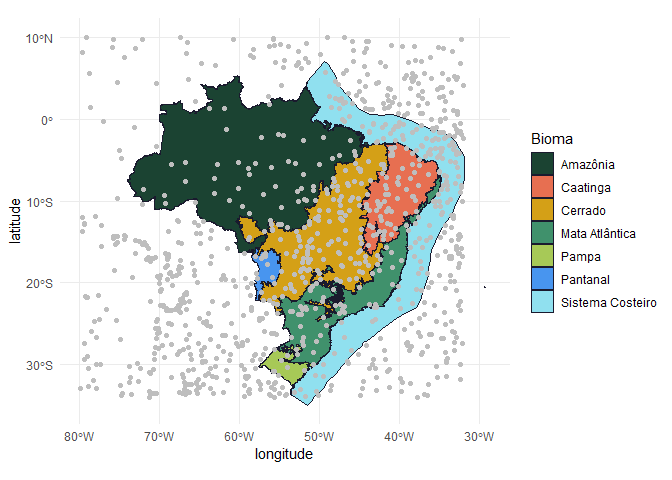
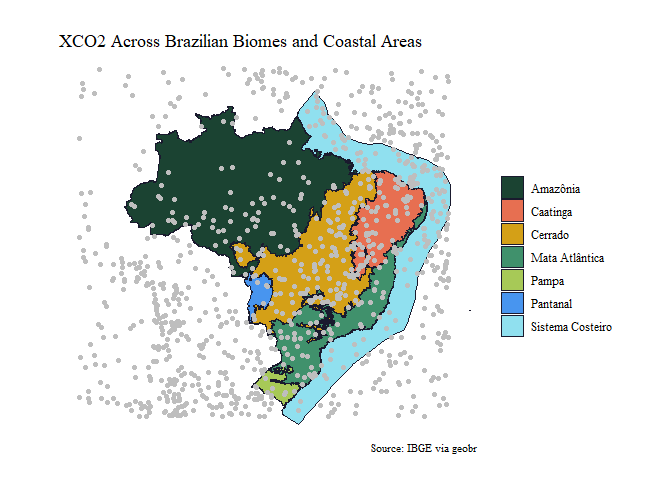
atualiza

diff --git a/README.md b/README.md
@@ -13,7 +13,7 @@ tabelas, o que é ótimo para projetos científicos.
 - warning = false = não mostre avisos quando o este bloco de código for
   executado.
 - message = false = não mostrar mensagens dos pacotes carregados que não
-  fazem parte da análise de dados.  
+  fazem parte da análise de dados.\
 - eval = false = não execute o código deste bloco, apenas mostre o
   código no documento.
 
@@ -25,20 +25,20 @@ tabelas, o que é ótimo para projetos científicos.
 
 ## 👨🔬 Autores
 
-- **Amanda de Oliveira Gravena**  
-  Mestranda em Agronomia (Ciência do Solo) - FCAV/Unesp  
+- **Amanda de Oliveira Gravena**\
+  Mestranda em Agronomia (Ciência do Solo) - FCAV/Unesp\
   Email: <amanda.gravena@unesp.br>
 
-- **Ms. Witória de Oliveira Araújo**  
-  Doutoranda em Agronomia (Ciência do Solo) - FCAV/Unesp  
+- **Ms. Witória de Oliveira Araújo**\
+  Doutoranda em Agronomia (Ciência do Solo) - FCAV/Unesp\
   Email: <witoria.araujo@unesp.br>
 
-- **Mr. Luís Miguel da Costa**  
-  Doutorando em Agronomia (Ciência do Solo) - FCAV/Unesp  
+- **Mr. Luís Miguel da Costa**\
+  Doutorando em Agronomia (Ciência do Solo) - FCAV/Unesp\
   Email: <lm.costa@unesp.br>
 
-- **Prof. Dr. Alan Rodrigo Panosso**  
-  Coorientador — Departamento de Ciências Exatas - FCAV/Unesp  
+- **Prof. Dr. Alan Rodrigo Panosso**\
+  Coorientador — Departamento de Ciências Exatas - FCAV/Unesp\
   Email: <alan.panosso@unesp.br>
 
 ## Carregando os pacotes
@@ -289,7 +289,7 @@ biomes |>
   ) +
   geom_point( data = df |> 
           filter(xco2_quality_flag == 0) |> 
-            sample_n(1000)
+            slice_sample(n = 1000)
               , aes(longitude, latitude), color="gray")
 ```
 
@@ -327,9 +327,9 @@ desenha uma amostra de pontos do conjunto de dados df.
 ## Transformar o df de XCO2 em objeto espacial (sf)
 
 ``` r
-# df_sf <- df |> 
-#   filter(xco2_quality_flag == 0) |> 
-#   st_as_sf(coords = c("longitude", "latitude"), crs = 4326, remove = FALSE)
+df_sf <- df |>
+  filter(xco2_quality_flag == 0) |>
+  st_as_sf(coords = c("longitude", "latitude"), crs = 4326, remove = FALSE)
 ```
 
 ## Legenda:
@@ -424,7 +424,7 @@ Como?
 \##Lendo o arquivo salvo até aqui
 
 ``` r
-#df_brasil <- read_rds("data/xco2-brasil-biomas.rds")
+df_brasil <- read_rds("data/xco2-brasil-biomas.rds")
 ```
 
 ``` r
@@ -495,24 +495,29 @@ st_crs(brasil)
 
 ``` r
 plot(st_geometry(costeiro_terrestre))
-
 costeiro_terrestre_buffer <- sf::st_buffer(costeiro_terrestre, 0.04)
-
 plot(
   st_geometry(costeiro_terrestre_buffer),
   main = "4 km Buffer Applied to the Terrestrial Portion of the Coastal Zone"
 )
 ```
 
+``` r
+costeiro_maritimo <- sf::st_difference(costeiro,costeiro_terrestre_buffer)
+plot(st_geometry(costeiro_terrestre_buffer), col = "lightyellow")
+plot(st_geometry(costeiro), col = "lightgreen")
+plot(st_geometry(costeiro_maritimo), col = "lightblue")
+```
+
 ## Converter df_brasil em objeto sf de pontos (ajuste nomes de colunas)
 
 ``` r
-# pontos_brasil <- st_as_sf(
-#   df_brasil,
-#   coords = c("longitude", "latitude"),
-#   crs = 4326,
-#   remove = FALSE
-# )
+pontos_brasil <- st_as_sf(
+  df_brasil,
+  coords = c("longitude", "latitude"),
+  crs = 4326,
+  remove = FALSE
+)
 ```
 
 \##Esse código cria um novo objeto espacial (sf), denominado
@@ -520,19 +525,26 @@ pontos_brasil, a partir do conjunto de dados df_brasil, utilizando as
 colunas de longitude e latitude para representar cada observação como um
 ponto geográfico.
 
-## Filtrar apenas os pontos que caem dentro da faixa costeira terrestre
+## Filtrar apenas os pontos que caem dentro da faixa costeira terrestre e costeira_maritimo
 
 ``` r
 # costeiro_terrestre <- st_set_crs(costeiro_terrestre, 4326)
-# 
-# pontos_costeiro_terra <- st_join(pontos_brasil, costeiro_terrestre  |>
+# pontos_costeiro_terra <- st_join(pontos_brasil, 
+#                                  costeiro_terrestre  |>
 #                                    mutate(name_biome = "Costeiro Terrestre") |>
-#                        select(name_biome, geometry))
-# 
-# pontos_costeiro_terra_buffer <- st_join(pontos_brasil, 
-#                                         costeiro_terrestre_buffer  |> 
-#                                    mutate(name_biome = "Costeiro Terrestre") |> 
-#                        select(name_biome, geometry))
+#                                    select(name_biome, geometry))
+
+# pontos_costeiro_terra_buffer <- st_join(pontos_brasil,
+#                                         costeiro_terrestre_buffer  |>
+#                                           mutate(name_biome = "Costeiro Terrestre") |>
+#                                           select(name_biome, geometry))
+
+costeiro_maritimo <- st_set_crs(costeiro_maritimo, 4326)
+
+pontos_costeiro_mar <- st_join(pontos_brasil,
+                               costeiro_maritimo  |>
+                                 mutate(name_biome = "Costeiro Marítimo") |>
+                                 select(name_biome, geometry))
 ```
 
 ## Legenda: Essa etapa: Quais pontos de XCO₂ estão dentro da faixa costeira terrestre?
@@ -552,6 +564,8 @@ geometry.
 # df_costeiro_terra_buffer <- pontos_costeiro_terra_buffer |> filter(name_biome.y ==  "Costeiro Terrestre")  |>  st_drop_geometry()
 # 
 # df_costeiro_terra <- pontos_costeiro_terra |> filter(name_biome.y ==  "Costeiro Terrestre")  |>  st_drop_geometry()
+# 
+df_costeiro_mar <- pontos_costeiro_mar |> filter(name_biome.y ==  "Costeiro Marítimo")  |>  st_drop_geometry()
 ```
 
 ## Legenda: Essa etapa serve para obter apenas os pontos que pertencem à faixa costeira terrestre e transformá-los novamente em uma tabela comum.
@@ -564,14 +578,23 @@ geometry.
 #   geom_point()
 # 
 # df_costeiro_terra_buffer |> 
+#   sample_n(1000) |> 
 #   ggplot(aes(longitude, latitude)) +
 #   geom_point()
+
+df_costeiro_mar |> filter(name_biome.x == "Sistema Costeiro") |>
+  sample_n(1000) |>
+  ggplot(aes(longitude, latitude)) +
+  geom_point(size = .5) +
+  geom_point(data = df_costeiro_terra_buffer |> sample_n(1000),
+             aes(longitude, latitude),color = "red",size = .5)
 ```
 
 ## Salvando na pasta data
 
 ``` r
 # write_rds(df_costeiro_terra_buffer,"data/xco2-costeiro-terrestre-buffer.rds")
+write_rds(df_costeiro_mar,"data/xco2-costeiro-mar.rds")
 ```
 
 \##A partir daqui, se inicia a parte de análise de dados que iniciamos.
